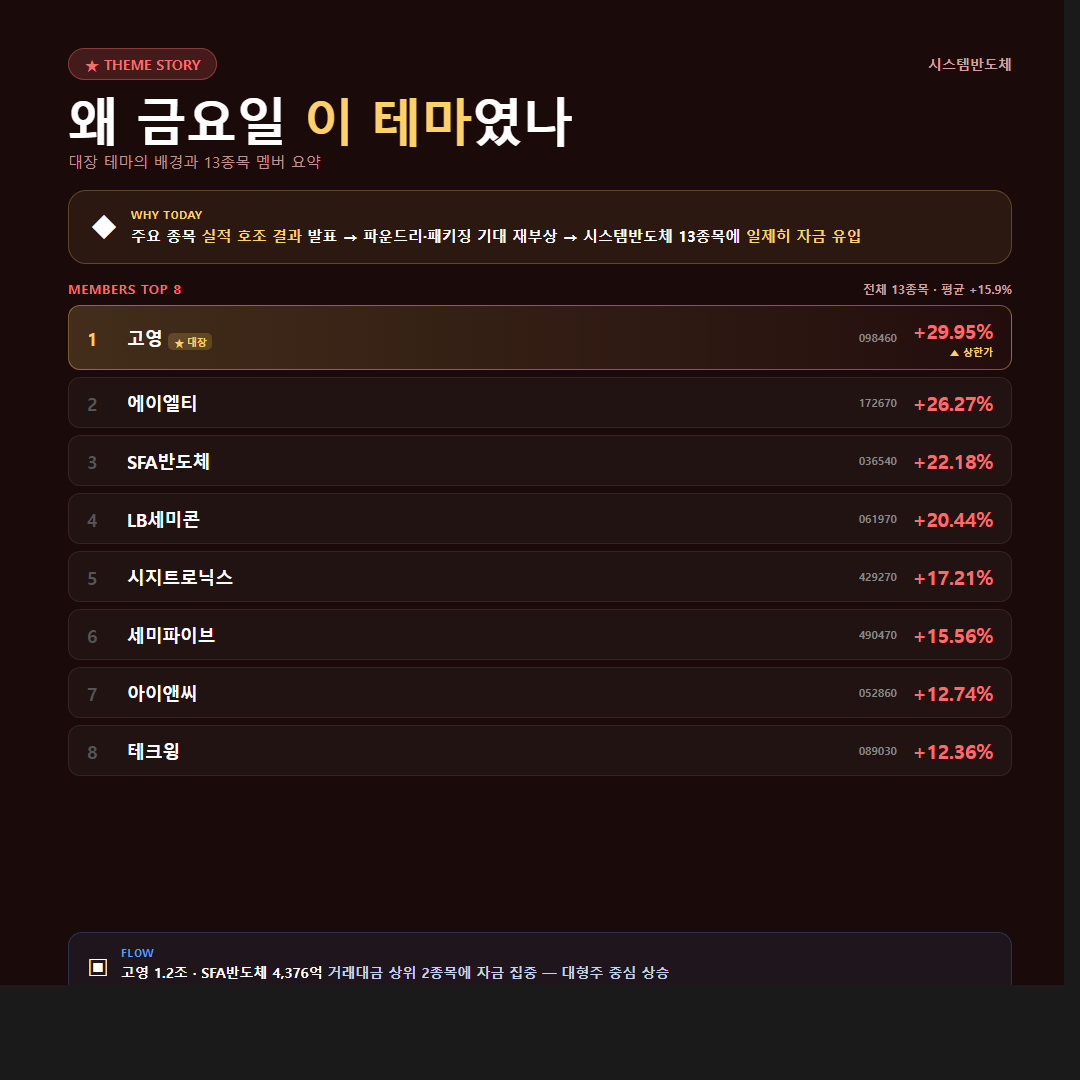
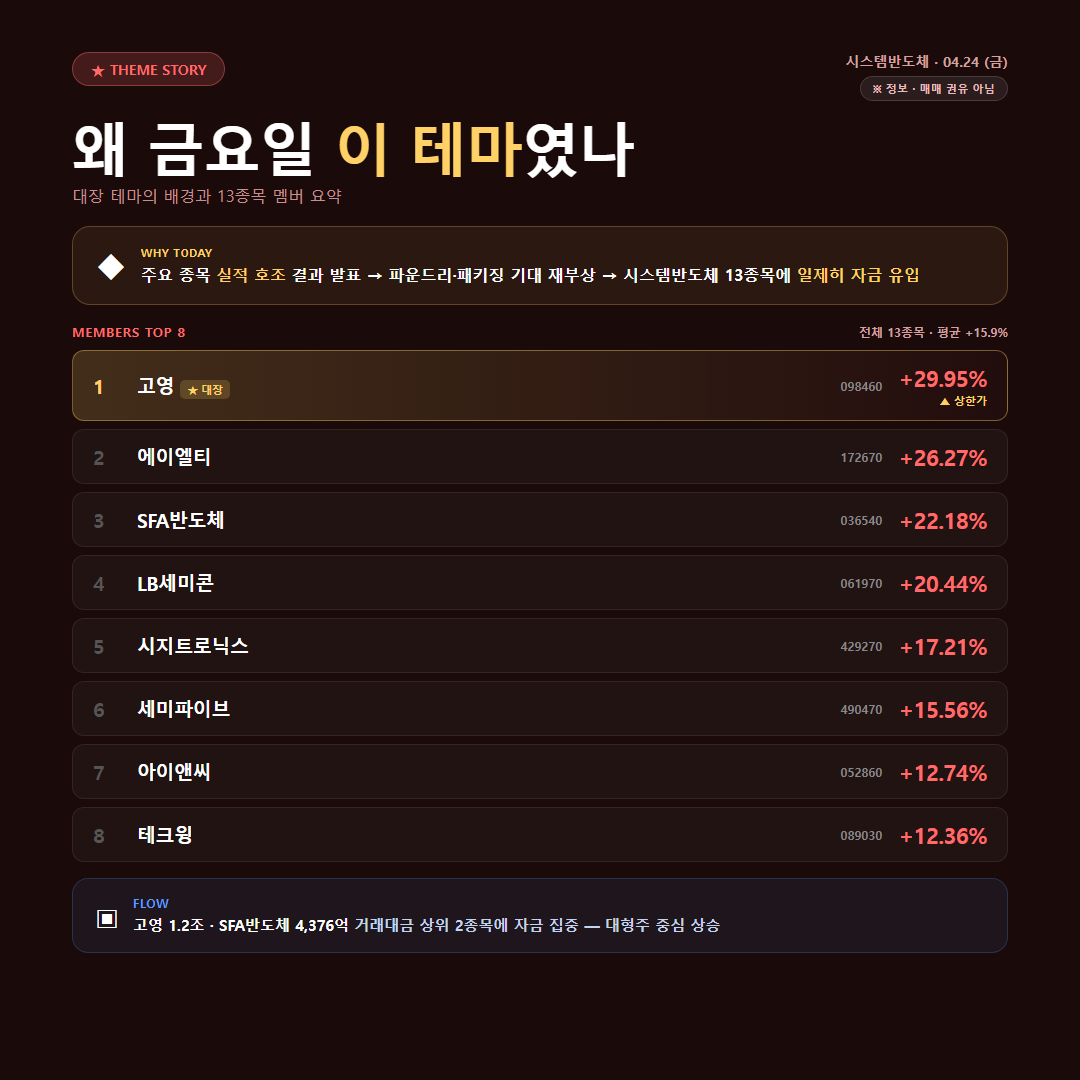
feat(cards): 7장 풀세트로 확장 + 레이아웃 구조 개편
카드 추가:
- pre2(신규): 뉴욕 마감 카드 (S&P +0.80%, NASDAQ +1.63%, DOW -0.16%)
  한국 시장 관점 연결 노트 추가 (반도체 테마 연관성 등)
- pre3: 기존 pre2를 pre3으로 리넘버링 (종목 거래대금 상위)

레이아웃 개선 (사용자 피드백 반영):
- 면책 문구를 하단 → 상단 우측 배지로 이동
  ("※ 정보 · 매매 권유 아님" 칩)
- 하단은 @stockrise_kr + URL 만 남겨 잘림 착각 제거
- body/html 배경을 각 카드 다크톤과 일치시켜
  렌더 가장자리의 까만 배경 문제 해결
- 카드 padding 전체 재조정 (상하 모두 60px 기준)
- leader1 '왜' 박스를 별도 content 박스로 분리 (더 이상 하단 고정 아님)

diff --git a/public/cards.html b/public/cards.html
@@ -80,15 +80,15 @@ body{background:var(--bg-primary);margin:0;min-height:100vh}
 <main class="cards-page">
   <div class="cards-page__head">
     <div class="cards-page__title">금요일 카드뉴스</div>
-    <div class="cards-page__date">2026.04.24 (금) 마감 기준 · 총 6장</div>
+    <div class="cards-page__date">2026.04.24 (금) 마감 기준 · 총 7장</div>
   </div>
   <div class="cards-page__hint">SNS 공유용 1080×1080 이미지 — 길게 눌러 저장하거나 아래 다운로드 버튼을 이용하세요.</div>
 
   <section class="cards-group">
     <div class="cards-group__head">
-      <span class="cards-group__tag">KEYWORDS</span>
-      <div class="cards-group__title">키워드 시리즈</div>
-      <span class="cards-group__sub">금요일 주도 테마 개요 · 2장</span>
+      <span class="cards-group__tag">PRE</span>
+      <div class="cards-group__title">장전·키워드 시리즈</div>
+      <span class="cards-group__sub">주도 테마 · 뉴욕 마감 · 종목 집계 · 3장</span>
     </div>
     <div class="cards-list">
       <div class="cards-list__item">
@@ -100,11 +100,19 @@ body{background:var(--bg-primary);margin:0;min-height:100vh}
         </div>
       </div>
       <div class="cards-list__item">
-        <div class="cards-list__label"><span class="cards-list__num">02</span>금요일 이 종목이 움직였다</div>
-        <img class="cards-list__img" src="/cards/20260424-pre2.png" alt="금요일 테마별 거래대금 상위 종목">
+        <div class="cards-list__label"><span class="cards-list__num">02</span>뉴욕 마감과 오늘의 한국</div>
+        <img class="cards-list__img" src="/cards/20260424-pre2.png" alt="뉴욕 마감 S&amp;P/NASDAQ/DOW 지수와 한국 시장 참고">
         <div class="cards-list__actions">
           <a class="cards-list__action" href="/cards/20260424-pre2.png" download>다운로드</a>
           <a class="cards-list__action" href="/cards/20260424-pre2.png" target="_blank" rel="noopener">원본 열기</a>
+        </div>
+      </div>
+      <div class="cards-list__item">
+        <div class="cards-list__label"><span class="cards-list__num">03</span>금요일 이 종목이 움직였다</div>
+        <img class="cards-list__img" src="/cards/20260424-pre3.png" alt="금요일 테마별 거래대금 상위 종목">
+        <div class="cards-list__actions">
+          <a class="cards-list__action" href="/cards/20260424-pre3.png" download>다운로드</a>
+          <a class="cards-list__action" href="/cards/20260424-pre3.png" target="_blank" rel="noopener">원본 열기</a>
         </div>
       </div>
     </div>
